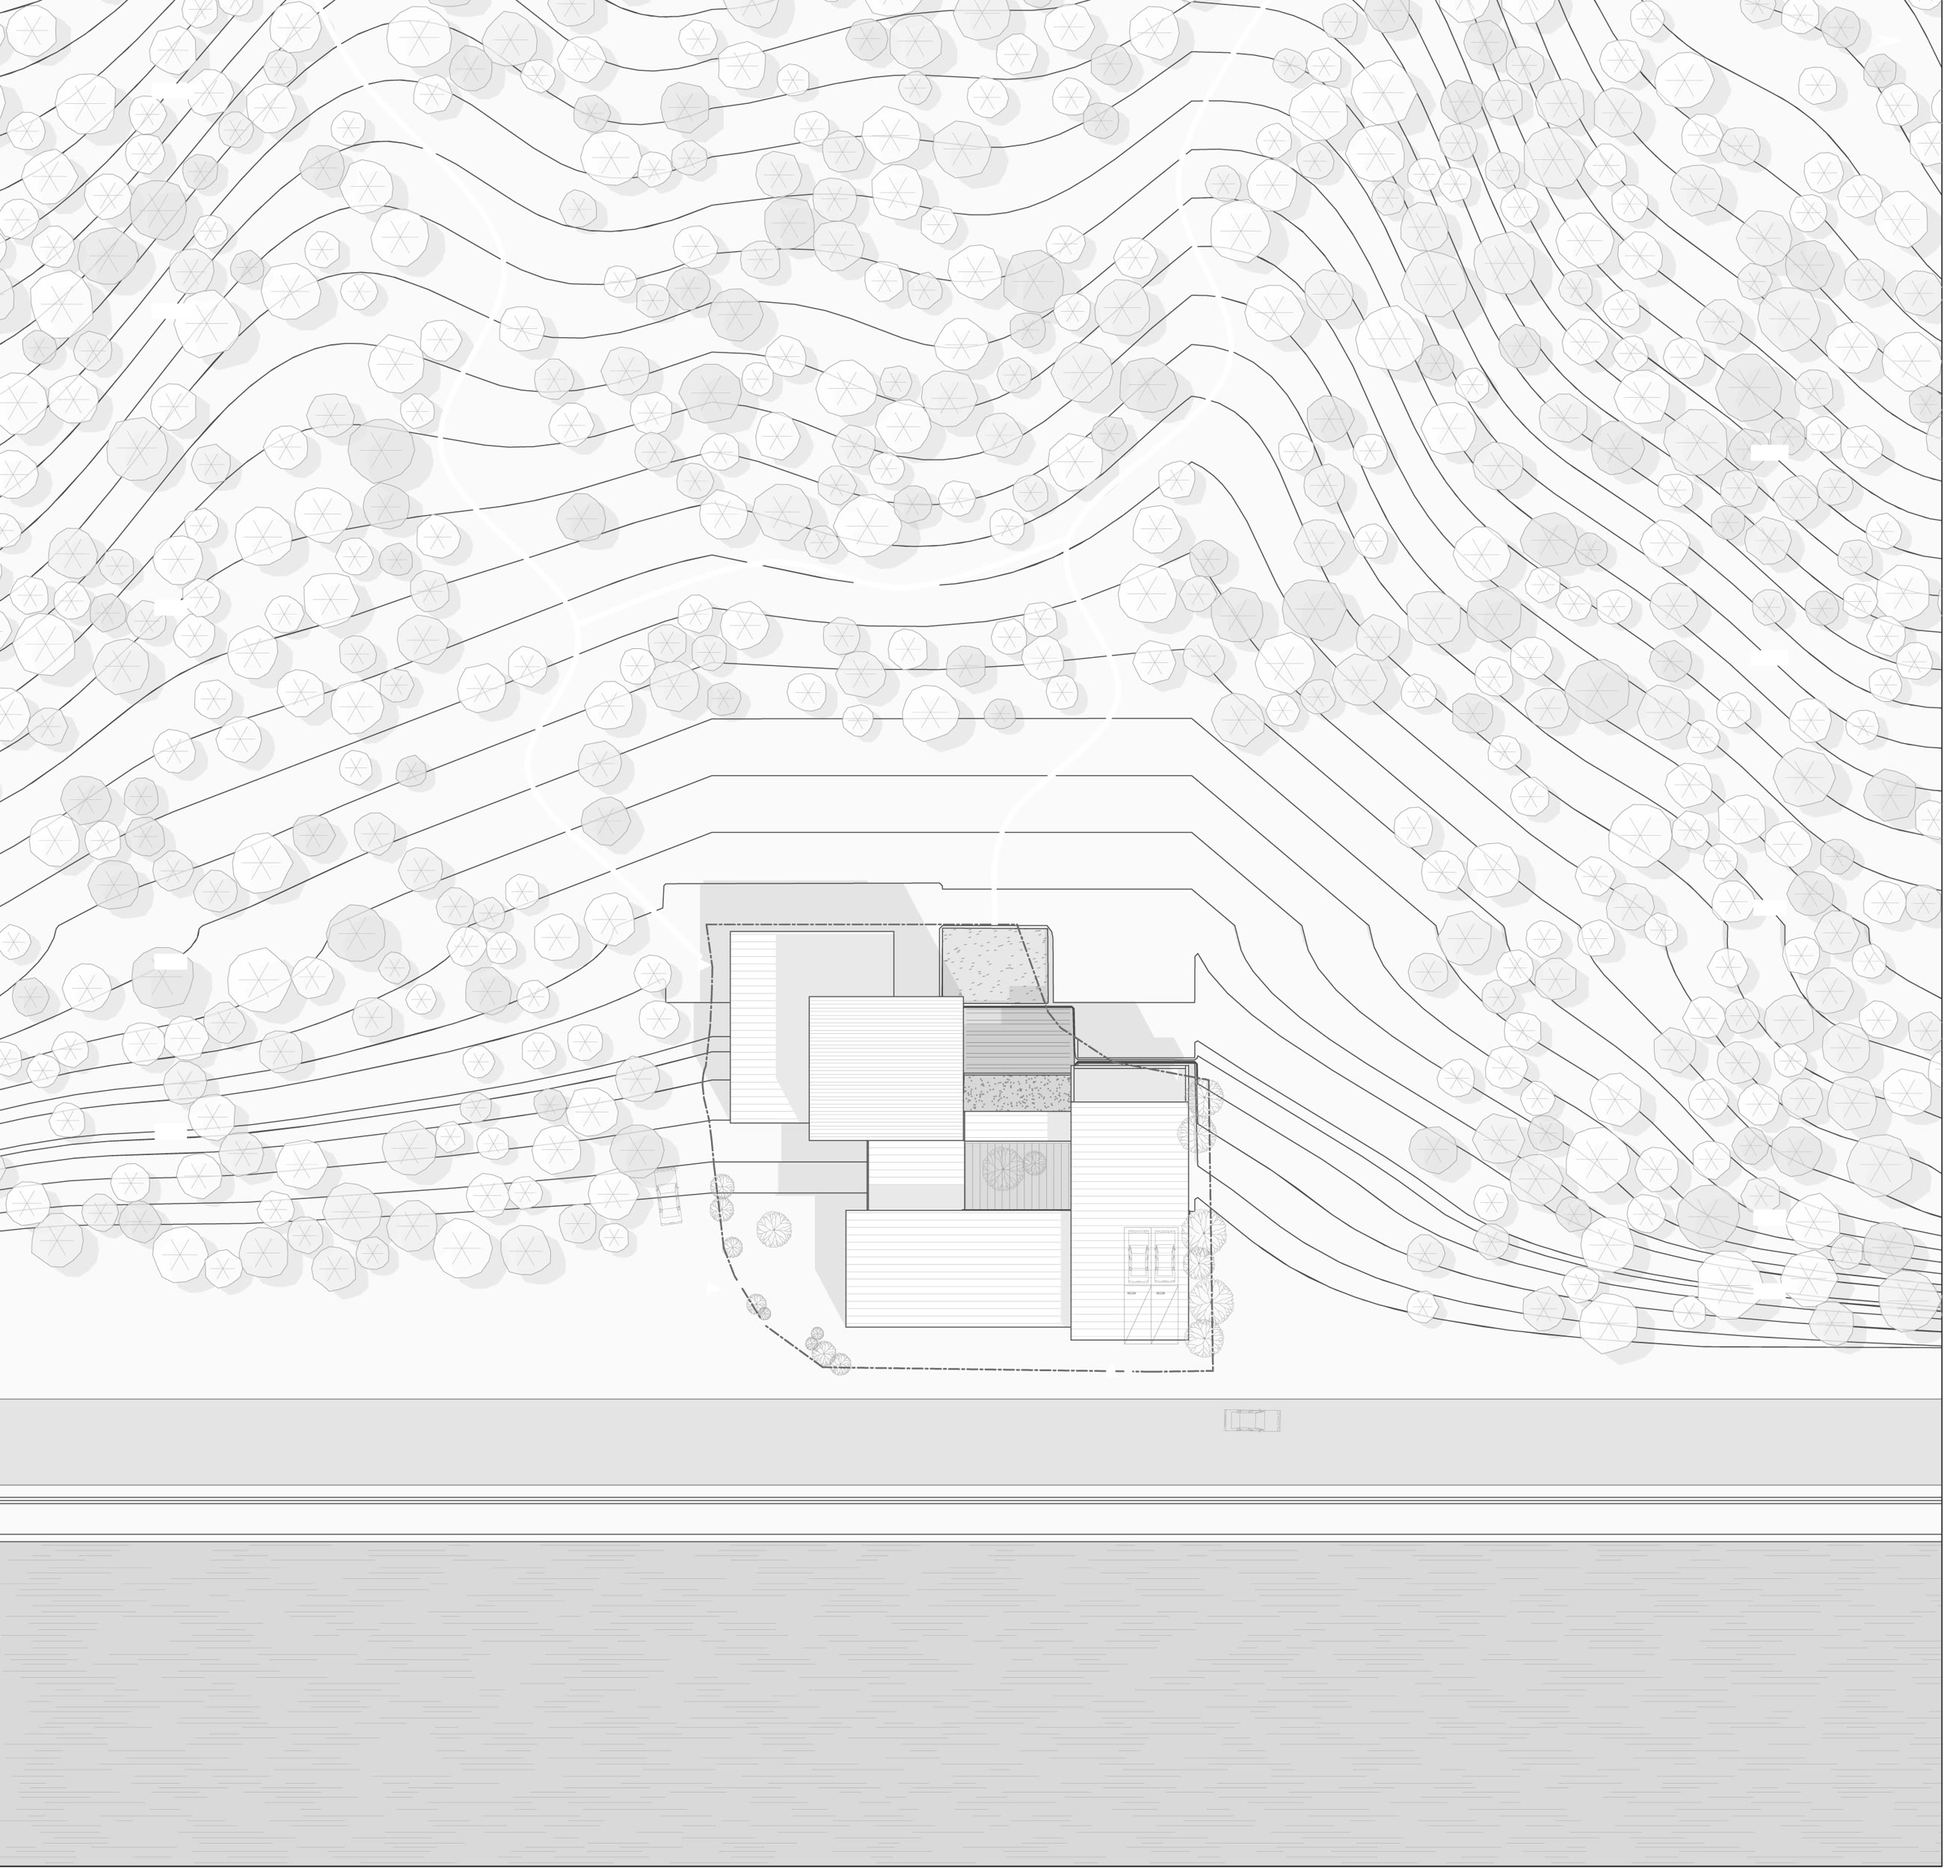
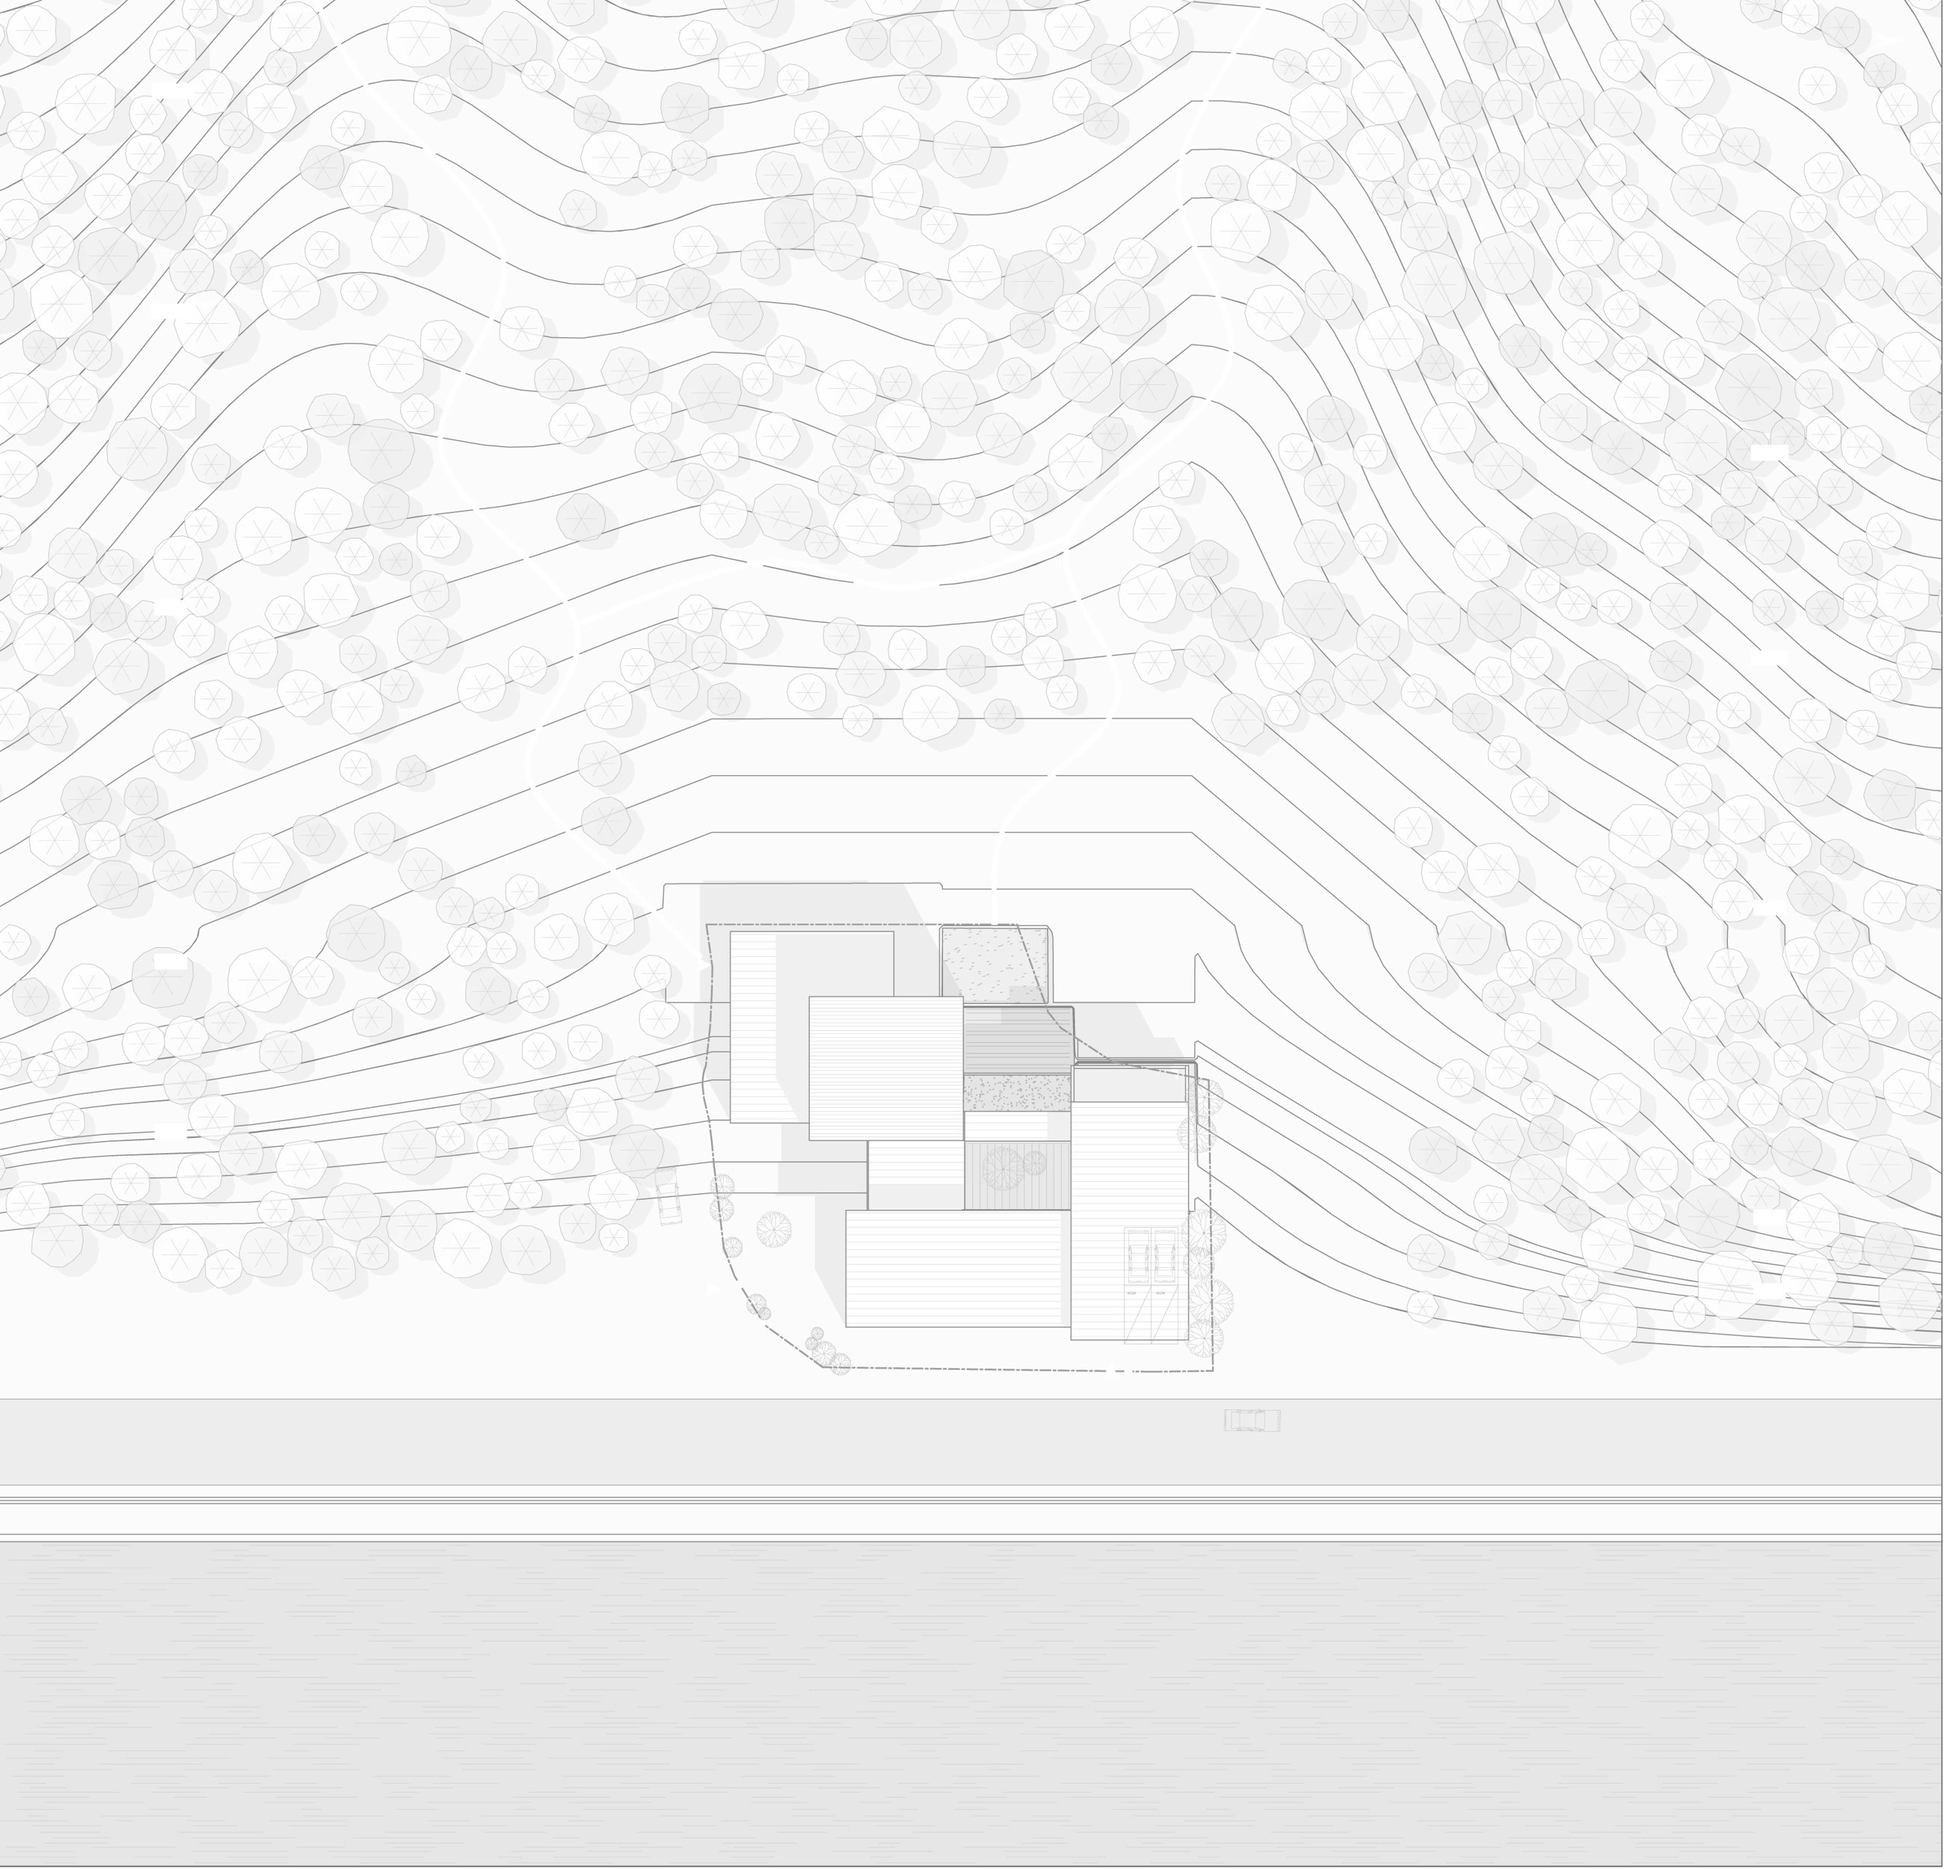
핀 #193·#194 (Natural Palette 배치도): 화면 높이에 맞게 작게, 선 농도 65%로 연하게, 치수선 기능(dims, 그림 위 SVG 선 + 사이트 글자) 추가해 건물 폭·깊이 표기(바닥 평면 모래 마당 7.8 m로 축척 환산)

Changed region(s): [[0.0, 0.0, 1.0, 1.0], [0.4985, 0.5304, 0.6231, 0.5928]]

diff --git a/assets/js/site.js b/assets/js/site.js
@@ -3898,8 +3898,10 @@
         return `<svg class="ld-svg" viewBox="0 0 1000 1000" preserveAspectRatio="none" aria-hidden="true">${pts.map((p) => `<path d="M${X(p.x).toFixed(1)} ${(p.y * 10).toFixed(1)}H${E1.toFixed(1)}L${E2.toFixed(1)} ${(p.ly * 10).toFixed(1)}H${E3.toFixed(1)}"/>`).join("")}</svg>`
           + pts.map((p) => `<i class="ld-dot" style="left:${(p.x * m).toFixed(2)}%;top:${p.y}%"></i><span class="ld-lb" style="left:calc(${(m * 100).toFixed(2)}% + 3.6%);top:${p.ly.toFixed(2)}%"><b class="num">${esc(p.t)}</b>${esc(p.nm)}</span>`).join("");
       };
+      // 치수선: 끝 눈금(45° 짧은 사선) + 가운데 글자. 좌표는 그림의 %
+      const dimsHtml = (list) => `<svg class="dims" viewBox="0 0 100 100" preserveAspectRatio="none" aria-hidden="true">${list.map(([x1, y1, x2, y2]) => `<line x1="${x1}" y1="${y1}" x2="${x2}" y2="${y2}"/><line class="tk" x1="${x1 - 0.6}" y1="${y1 + 0.6}" x2="${x1 + 0.6}" y2="${y1 - 0.6}"/><line class="tk" x1="${x2 - 0.6}" y1="${y2 + 0.6}" x2="${x2 + 0.6}" y2="${y2 - 0.6}"/>`).join("")}</svg>${list.map(([x1, y1, x2, y2, t]) => `<span class="ftag c lv dim-t${Math.abs(x2 - x1) < Math.abs(y2 - y1) ? " dv" : ""}" style="left:${(x1 + x2) / 2}%;top:${(y1 + y2) / 2}%">${esc(t)}</span>`).join("")}`;
       const figure = (im, seed, w, h) => `
-        <figure data-reveal="wipe"${im.span ? " style=\"grid-column:1/-1\"" : ""}>${im.lead ? `<div class="ldw" style="--lw:${im.lead}%">` : ""}<div class="media${im.lite ? " lite" : ""}${im.tall ? " tall" : ""}"${im.r ? ` style="--r:${im.r};aspect-ratio:${im.r}${im.lead ? ";width:calc(100% - var(--lw))" : im.w ? `;width:${im.w}` : ""}"` : ""}>${im.xp ? xpHtml(im) : im.ba ? `<div class="ba" data-ba tabindex="0" role="slider" aria-label="Before and after" aria-valuemin="0" aria-valuemax="100" aria-valuenow="50" style="--p:50%"><img src="${esc(im.ba[1])}" alt="After" decoding="async" draggable="false"><div class="ba-b"><img src="${esc(im.ba[0])}" alt="Before" decoding="async" draggable="false"></div><i class="ba-h" aria-hidden="true"></i><span class="ba-t ba-tl">${esc(im.baL ? im.baL[0] : "Before")}</span><span class="ba-t ba-tr">${esc(im.baL ? im.baL[1] : "After")}</span></div>` : im.sim ? `<div class="mz"><div class="mv-sim mv-${im.sim}" data-mv="${im.sim}" data-bg="${esc(im.src || "")}" data-lenis-prevent></div></div>` : mz(art(im.src, im.kind || "axon", seed, w, h, p.mass, im.caption))}${im.flow ? flowSvg(im.flow) : ""}${im.sun ? `<svg class="sun-ov" viewBox="0 0 2000 459" preserveAspectRatio="none" aria-hidden="true"><path class="sun-tr"/><rect class="sun-col" y="40" width="82" height="380"/><line class="sun-h"/><circle class="sun-dot" r="9"/></svg><span class="sun-lb"></span>` : ""}${im.reveal ? Array.from({ length: im.reveal }, (_, j) => `<i class="rv-c" style="--j:${j};--n:${im.reveal}" aria-hidden="true"></i>`).join("") : ""}${im.tags ? im.tags.map(([x, y, t, al, k]) => `<span class="ftag${al ? ` ${al}` : ""}${k ? ` ${k}` : ""}${im.lead && /\bpt\b/.test(`${al} ${k}`) ? " ld-alt" : ""}" style="left:${x}%;top:${y}%">${esc(t)}</span>`).join("") : ""}</div>${im.lead ? leadHtml(im) + "</div>" : ""}
+        <figure data-reveal="wipe"${im.span ? " style=\"grid-column:1/-1\"" : ""}>${im.lead ? `<div class="ldw" style="--lw:${im.lead}%">` : ""}<div class="media${im.lite ? " lite" : ""}${im.tall ? " tall" : ""}"${im.r ? ` style="--r:${im.r};aspect-ratio:${im.r}${im.lead ? ";width:calc(100% - var(--lw))" : im.w ? `;width:${im.w}` : ""}"` : ""}>${im.xp ? xpHtml(im) : im.ba ? `<div class="ba" data-ba tabindex="0" role="slider" aria-label="Before and after" aria-valuemin="0" aria-valuemax="100" aria-valuenow="50" style="--p:50%"><img src="${esc(im.ba[1])}" alt="After" decoding="async" draggable="false"><div class="ba-b"><img src="${esc(im.ba[0])}" alt="Before" decoding="async" draggable="false"></div><i class="ba-h" aria-hidden="true"></i><span class="ba-t ba-tl">${esc(im.baL ? im.baL[0] : "Before")}</span><span class="ba-t ba-tr">${esc(im.baL ? im.baL[1] : "After")}</span></div>` : im.sim ? `<div class="mz"><div class="mv-sim mv-${im.sim}" data-mv="${im.sim}" data-bg="${esc(im.src || "")}" data-lenis-prevent></div></div>` : mz(art(im.src, im.kind || "axon", seed, w, h, p.mass, im.caption))}${im.flow ? flowSvg(im.flow) : ""}${im.sun ? `<svg class="sun-ov" viewBox="0 0 2000 459" preserveAspectRatio="none" aria-hidden="true"><path class="sun-tr"/><rect class="sun-col" y="40" width="82" height="380"/><line class="sun-h"/><circle class="sun-dot" r="9"/></svg><span class="sun-lb"></span>` : ""}${im.dims ? dimsHtml(im.dims) : ""}${im.reveal ? Array.from({ length: im.reveal }, (_, j) => `<i class="rv-c" style="--j:${j};--n:${im.reveal}" aria-hidden="true"></i>`).join("") : ""}${im.tags ? im.tags.map(([x, y, t, al, k]) => `<span class="ftag${al ? ` ${al}` : ""}${k ? ` ${k}` : ""}${im.lead && /\bpt\b/.test(`${al} ${k}`) ? " ld-alt" : ""}" style="left:${x}%;top:${y}%">${esc(t)}</span>`).join("") : ""}</div>${im.lead ? leadHtml(im) + "</div>" : ""}
         ${im.notes ? `<ol class="fnotes${im.ln ? " ld-m" : ""}" style="--n:${im.nc || im.notes.length}${im.w ? `;width:${im.w}` : ""}">${im.notes.map(([n, t, d]) => `<li><b><span class="mid num">${esc(n)}</span> ${esc(t)}</b>${d ? `<span class="mid">${esc(d)}</span>` : ""}</li>`).join("")}</ol>` : ""}
         <figcaption class="figcap mono"><span>${esc(capOf(im))}</span></figcaption></figure>`;
       // 렌더 장면 줄 나누기: 가로(r ≥ 1.3)는 한 줄 한 장, 이어지는 세로·정사각은 두 장씩(남는 셋은 세 장 한 줄)

diff --git a/assets/js/data.js b/assets/js/data.js
@@ -2539,7 +2539,7 @@ const SITE = {
     sections: [
       { heading: "Between the Lake Road and the Wooded Hill", big: true, // KG-04 배치도와 대지 분석
         text: "The site is a slope that climbs from the reservoir road on the east to the wooded hill on the north-west. The road side takes the drop zone, the main entrance and the parking, so cars end at the front of the site; the light well and the play yards step back from the noise and the eyes of the road, one level at a time toward the forest. The forest entrance on the second floor and the forest yard join the hill path directly.",
-        images: [{"src":"assets/img/natural-palette/site.jpg","caption":"Site plan — roof plan, shadows at 10 a.m. in spring, spot heights S.L (m)","r":1.0399,"tags":[[15.2,32.6,"Forest","c","b"],[40.1,27.1,"Hill path","c","m"],[82.2,33.8,"Wooded hill","c","b"],[31.6,50.8,"Forest entrance · 2F S.L +3.8","r","m"],[31.9,68.1,"Main entrance · 1F S.L ±0","r","m"],[13.9,76.9,"Lakeside road","c","b"],[57.3,78.1,"Car access","c","m"],[51.1,91.2,"Reservoir","c","b"]],"w":"100%"}] },
+        images: [{"src":"assets/img/natural-palette/site.jpg","caption":"Site plan — roof plan, shadows at 10 a.m. in spring, spot heights S.L (m)","r":1.0399,"tags":[[15.2,32.6,"Forest","c","b"],[40.1,27.1,"Hill path","c","m"],[82.2,33.8,"Wooded hill","c","b"],[31.6,50.8,"Forest entrance · 2F S.L +3.8","r","m"],[31.9,68.1,"Main entrance · 1F S.L ±0","r","m"],[13.9,76.9,"Lakeside road","c","b"],[57.3,78.1,"Car access","c","m"],[51.1,91.2,"Reservoir","c","b"]],"w":"min(64%, calc((100vh - 170px) * 1.0399));margin-inline:auto","dims":[[37.6,46.4,61.2,46.4,"≈ 40 m"],[65.6,49.5,65.6,71.7,"≈ 36 m"]]}] },
       { heading: "Four Readings of the Site", cols: 4, // KG-04 A–D
         text: "Sun, view, noise and access — the four things the slope gives and takes.",
         images: [{"src":"assets/img/natural-palette/sun.jpg","caption":"A Sun — open to the south and east. Classrooms and the play deck take the low winter sun; the light well lets the high summer sun in deep.","r":0.9017,"tags":[[44.4,3.9,"W","c","m"],[11.6,45.9,"S","c","m"],[44.4,96.4,"E","c","m"],[40,70.2,"Winter solstice","","m"],[38.2,82,"Summer solstice","","m"],[62.6,45.6,"Light well","","m"]]},{"src":"assets/img/natural-palette/view.jpg","caption":"B View — the water below, the forest ridge above. The first floor looks at the lake; the second, the third and the roof classroom look at the forest.","r":0.8989,"tags":[[31,9.8,"Forest ridge","c","m"],[93.1,10.2,"Forest","c","m"],[57.3,95.8,"Reservoir","c","m"]]},{"src":"assets/img/natural-palette/noise.jpg","caption":"C Noise — the road is filtered by the front yard, the street trees and the parking block; the play yards withdraw inside the building.","r":0.9043,"tags":[[49.1,37.5,"Quiet yard","c","m"],[10.2,83.2,"Road","","m"]]},{"src":"assets/img/natural-palette/access.jpg","caption":"D Access — cars end at the drop zone and the parking on the road. Children walk in two ways: the main door on the first floor, the forest door on the second.","r":0.9014,"tags":[[10.6,3.9,"Walk","","m"],[25.9,3.9,"Car","","m"],[13.9,13.2,"Forest entrance","","m"],[15.7,55.6,"Main entrance","c","m"],[24.8,63.5,"Drop zone","c","m"]]}] },

diff --git a/assets/css/site.css b/assets/css/site.css
@@ -2407,3 +2407,8 @@ html.sb-on body { background: var(--mn-bg); }
 html.sb-on #main, html.sb-on .ftr { translate: var(--sb, 0px) 0; box-shadow: -1px 0 0 var(--line); background: var(--bg); }
 html.sb-on { overflow-x: hidden; }
 @media (max-width: 760px) { .sb-edge { width: 16px; } }
+
+/* 핀 #194: 그림 위 치수선 */
+.media .dims { position: absolute; inset: 0; width: 100%; height: 100%; z-index: 2; pointer-events: none; overflow: visible; }
+.media .dims line { stroke: var(--ink); stroke-width: 1; vector-effect: non-scaling-stroke; }
+.media .ftag.dim-t.dv { transform: translate(-50%, -50%) rotate(-90deg); }
